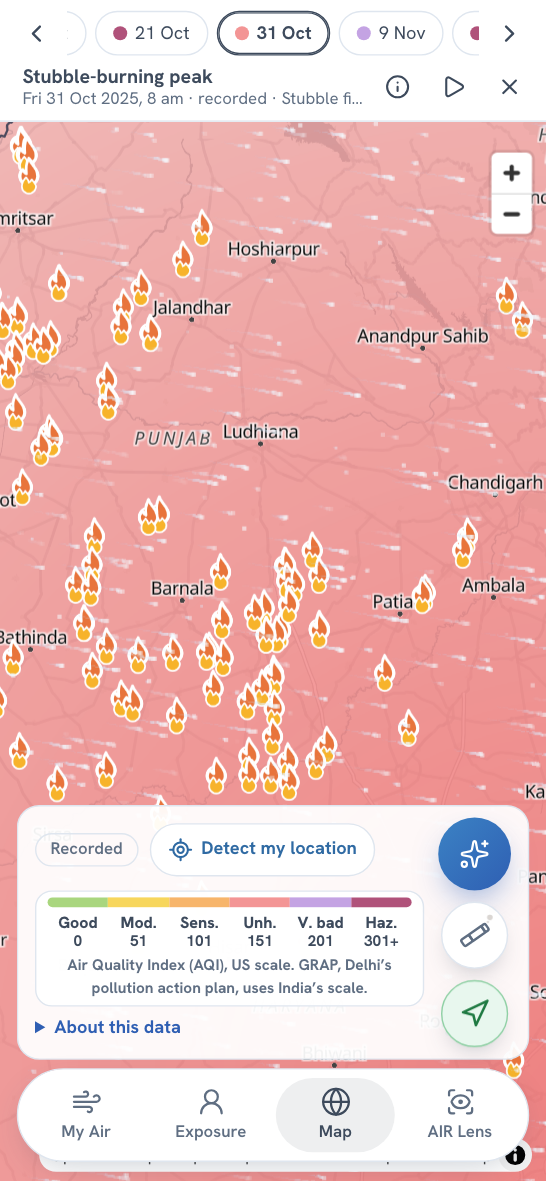
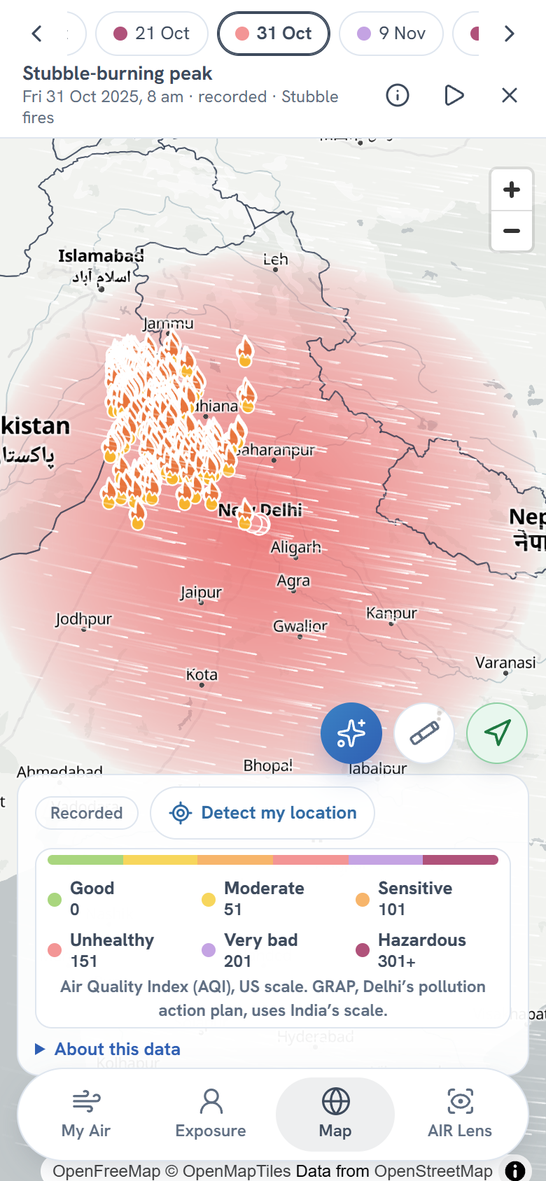
Docs: retake phone screenshots and collage from the current app

diff --git a/docs/images/README.md b/docs/images/README.md
@@ -1,6 +1,6 @@
 # Screenshots
 
-All taken from the live site (https://d3lmq1mze2gup3.cloudfront.net) on 11 October 2026 at a phone's width (390 px) or a laptop's (1280 px). Every one shows real data. The ones from the recorded days (`/#/week`) are real archived days, played through the same app and labelled "recorded" on screen.
+All taken on 22 October 2026 from the current app build, at a phone's width (390 px) or, for the two desktop ones, a laptop's (1280 px, taken 11 October). Every one shows real data. The ones from the recorded days (`/#/week`) are real archived days, played through the same app and labelled "recorded" on screen.
 
 | File                                      | What it shows                                                                                                                                                         |
 | ----------------------------------------- | --------------------------------------------------------------------------------------------------------------------------------------------------------------------- |
